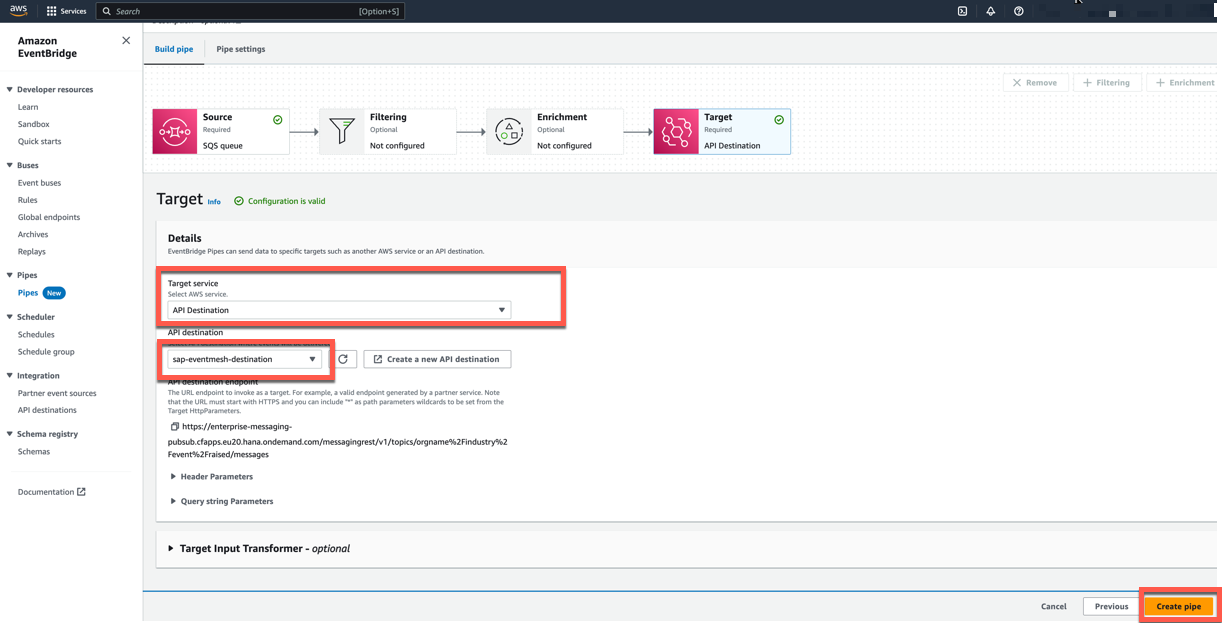
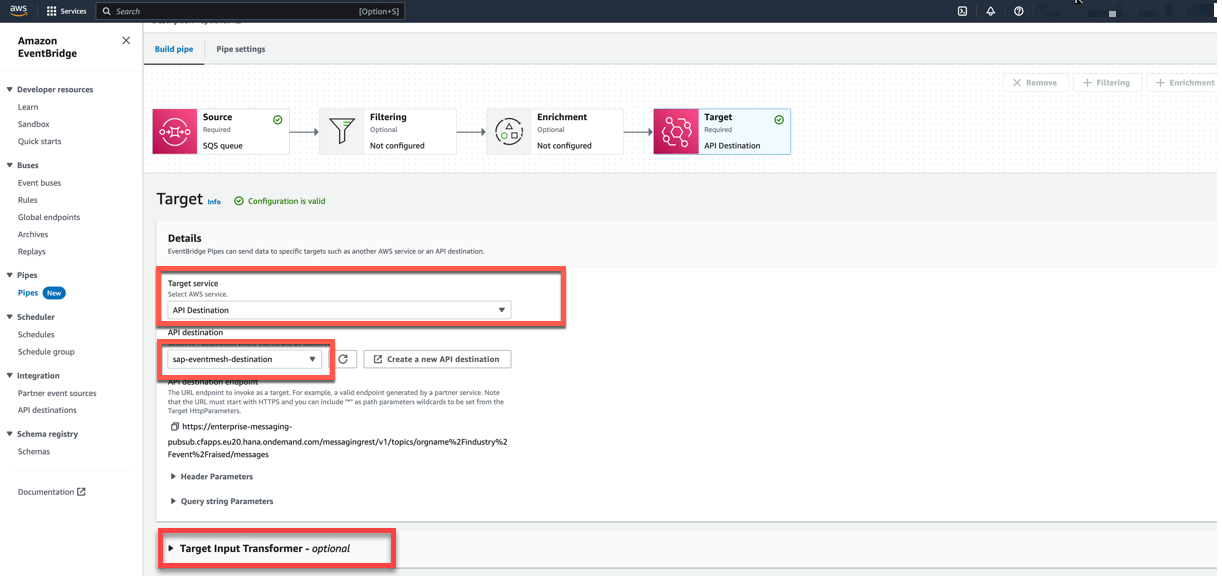
Updated documentation

diff --git a/documentation/Integration-with-AWS-IoT/Scenario1-Inbound-to-SAPS4HANA/Step5-Build-Deploy-ExtensionApplication/README.md b/documentation/Integration-with-AWS-IoT/Scenario1-Inbound-to-SAPS4HANA/Step5-Build-Deploy-ExtensionApplication/README.md
@@ -205,10 +205,14 @@ Build and deploy the application. Run the following commands:
 5. Skip the **Filtering** and **Enrichment** sections by choosing **Next**
 
 6. In the **Target** section, in the **Target service** dropdown, select **API Destination** and in **API destination** dropdown, select 
-the destination that is created in the above step(sap-eventmesh-destination) and then choose **Create pipe**.
+the destination that is created in the above step(sap-eventmesh-destination) and then expand **Target Input Transformer**.
 
     ![plot](./images/eventbridge-pipes5.png)
 
-7. "Pipe sqs-sap-eventmesh-pipe was created Successfully" message is displayed and check that the status is **Running**.
+7. In the **Target Input Transformer** section, enter the json as { "data": <$.body> } and then choose **Create pipe**.
 
     ![plot](./images/eventbridge-pipes6.png)
+
+8. "Pipe sqs-sap-eventmesh-pipe was created Successfully" message is displayed and check that the status is **Running**.
+
+    ![plot](./images/eventbridge-pipes7.png)
